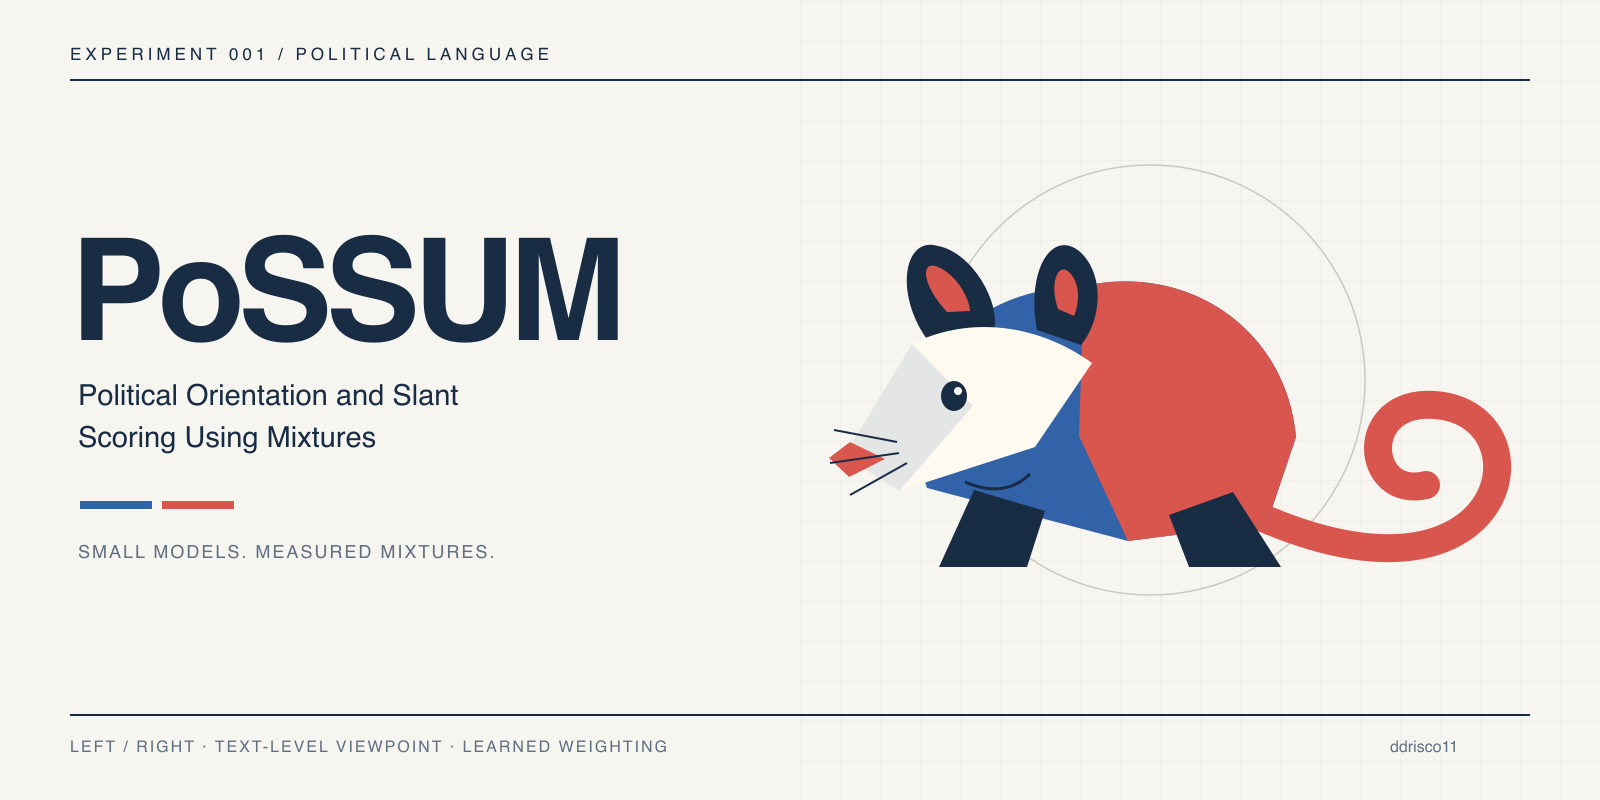
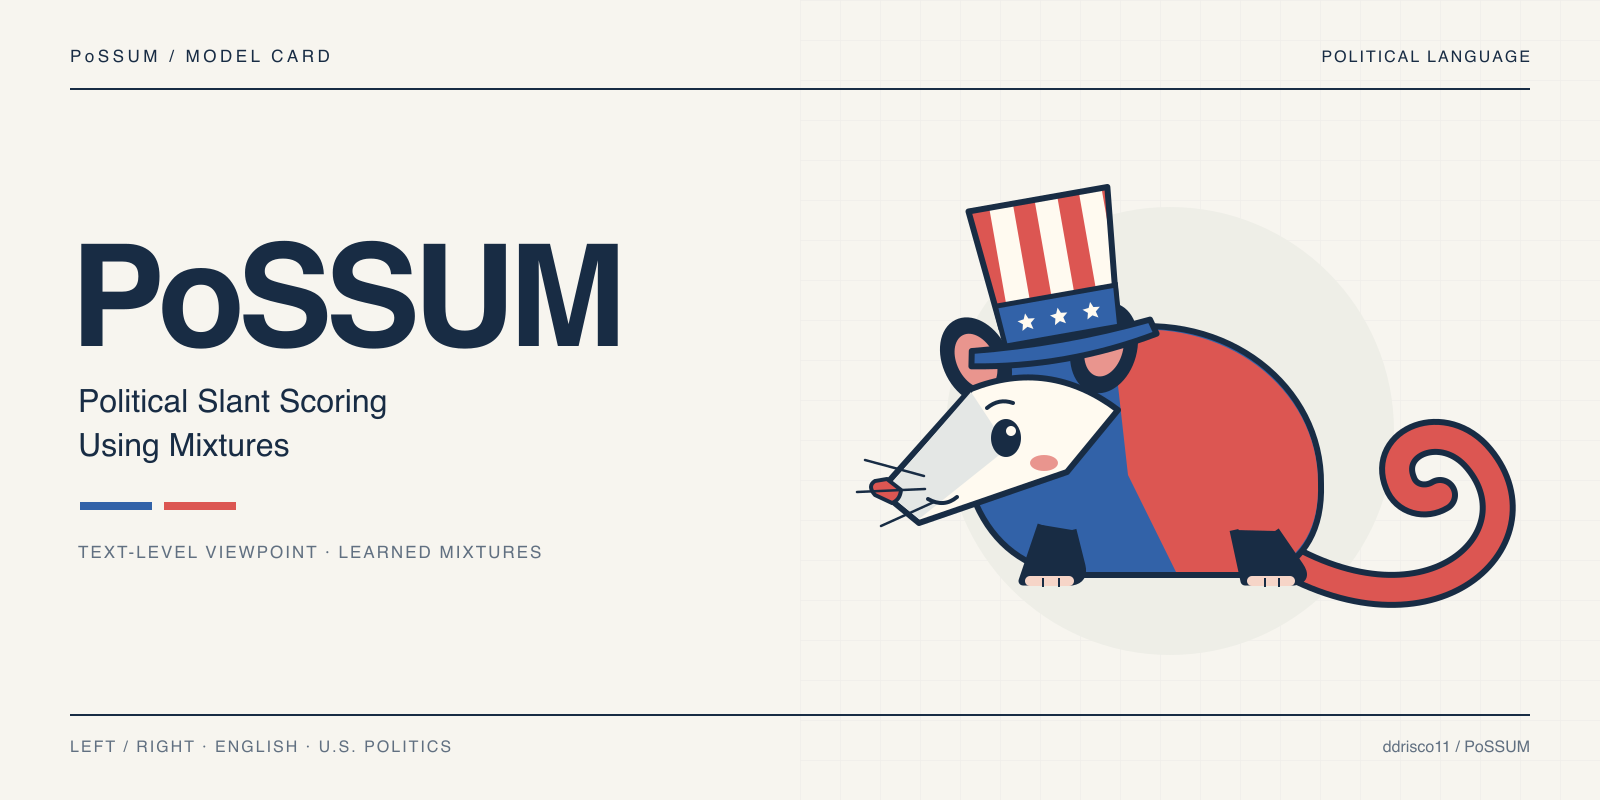
Refresh PoSSUM model card and Uncle Sam mascot

diff --git a/src/possum/cli.py b/src/possum/cli.py
@@ -4,7 +4,7 @@ from pathlib import Path
 
 
 def main():
-    parser = argparse.ArgumentParser(description="PoSSUM modular experiment")
+    parser = argparse.ArgumentParser(description="PoSSUM political slant classification")
     sub = parser.add_subparsers(dest="command", required=True)
     p = sub.add_parser("pilot",help="Run compact experts; reserve final test without scoring it")
     p.add_argument("input",help="Normalized JSONL records")

diff --git a/src/possum/__init__.py b/src/possum/__init__.py
@@ -1,1 +1,1 @@
-"""PoSSUM: a small, auditable political viewpoint experiment."""
+"""PoSSUM: Political Slant Scoring Using Mixtures."""

diff --git a/README.md b/README.md
@@ -1,20 +1,37 @@
-<img src="assets/cover.svg" alt="Red and blue vector possum beside PoSSUM title" width="100%">
+<img src="assets/cover.svg" alt="Cartoon red and blue possum wearing an Uncle Sam hat beside the PoSSUM title" width="100%">
 
 # PoSSUM
-**Political Orientation and Slant Scoring Using Mixtures**
+**Political Slant Scoring Using Mixtures**
 
-A short experiment: does a small, embedding-conditioned mixture beat a strong single model at classifying the political viewpoint expressed in a short U.S. political passage?
+## Model overview
 
-**Labels:** `0 = Left`, `1 = Right`. **Status:** compact M2 pilot completed; [results and limitations](reports/initial-pilot.md). No scientific conclusions yet. Model weights and source datasets are downloaded separately and never committed.
+PoSSUM classifies the political viewpoint expressed in short English passages about U.S. politics. It combines component predictions with a neural gate conditioned on 384-dimensional BGE-small embeddings. The hybrid gate can also assign weight to its own prediction.
 
-## Experiment in three steps
-1. Freeze encoders; run a small grouped pilot with BGE-small, BERT, GLiNER, and a lexical baseline.
-2. Calibrate component scores; compare best single, equal average, fixed mixture, and a 384 → 32 → K neural gate. Run leave-one-component-out ablations.
-3. Only if validation evidence supports it, expand the data, audit Mistral/Qwen logits, and fine-tune selected encoders. Open the reserved test set once the recipe is fixed.
+| Property | Specification |
+|---|---|
+| Task | Binary political slant classification |
+| Labels | `0 = Left`, `1 = Right` |
+| Input | Approximately 20–150 words |
+| Architecture | Dense mixture of calibrated predictions with an optional self-prediction branch |
+| Components | BERT, BGE-small, GLiNER; optional ModernBERT, OpenJev, Mistral and Qwen adapters |
+| Status | Development implementation with a compact synthetic pilot; no validated release checkpoint |
+| Language and domain | English, U.S. politics |
 
-This is a dense mixture of predictions, not a sparsely routed language model: every enabled expert runs. A gate does not automatically reduce inference cost.
+Model weights and source datasets are downloaded separately. Every enabled expert runs; the gate does not provide sparse inference routing.
 
-See [experiment protocol](docs/experiment.md), [model registry](docs/models.md), and [dataset manifest](docs/datasets.md).
+## Training and evaluation
+
+The compact pilot uses frozen encoders with fitted classification heads. Expert fitting, temperature calibration, gate training and validation use disjoint groups. Comparisons include single models, equal averaging, a fixed mixture, an experts-only gate and a hybrid gate with its own classifier.
+
+The completed pilot used 480 synthetic development passages. BERT achieved 0.987 macro-F1 and 0.0950 log loss on 80 validation passages from one topic group. Mixture improvements were small; these results do not establish performance on human-authored text. The reserved test set has not been scored. The grouped pilot uses a 75/25 development/test split; the broader evaluation target is 80/20.
+
+See the [pilot report](reports/initial-pilot.md), [training and evaluation protocol](docs/evaluation.md), [model registry](docs/models.md), and [dataset manifest](docs/datasets.md).
+
+## Intended use and limitations
+
+PoSSUM is a development model for studying expressed political viewpoint in text. It does not infer an individual's beliefs. Party and publisher metadata provide noisy supervision rather than passage-level ground truth. Neutral, ambiguous and nonpolitical text is outside the binary training target; abstention and politicalness detection need separate evaluation.
+
+Human-verified evaluation and broader domain testing remain incomplete. OpenJev, Mistral, Qwen and ModernBERT have not completed checkpoint-level inference in the pilot. Training data and component weights retain their upstream licenses; see the model registry and dataset manifest.
 
 ## Local setup (Apple Silicon)
 ```bash
@@ -29,8 +46,6 @@ Use one component at a time and cache scores. The default pilot avoids 7–27B w
 
 ## Reproducibility
 Record checkpoint revisions, dataset hashes, split membership, dependency versions, seeds, score prompts, and device in every run. Raw corpora, model caches and sample-level outputs stay ignored. Public reports contain aggregate metrics only.
-
-This experiment measures expressed viewpoint, not an individual's beliefs. Party/source labels are noisy supervision; they are not human verification of a passage's viewpoint. Neutral and ambiguous input is outside the binary training target. Production abstention and politicalness detection remain separate evaluation tasks.
 
 ## Run an expert independently
 ```bash

diff --git a/docs/evaluation.md b/docs/evaluation.md
@@ -1,4 +1,4 @@
-# Short experiment protocol
+# Training and evaluation protocol
 
 ## Question and scope
 Predict left/right viewpoint in English U.S. political text of 20–150 whitespace-separated words. A disagreement with a politician or a quotation need not express the author's own view. Exclude neutral, ambiguous and nonpolitical examples only when the dataset supplies reliable labels or human review; do not pretend party metadata performs that filtering.
@@ -6,7 +6,7 @@ Predict left/right viewpoint in English U.S. political text of 20–150 whitespa
 ## Splits
 Reserve approximately 20% of connected source groups for a final test. Group by original document and author, including shared identities across datasets; join near-duplicate clusters before splitting. Remaining 80% is development. Within development allocate disjoint expert-fit, calibration, gate-fit and validation groups. This held-out stacking design avoids fitting a gate on in-sample expert scores; it trades some efficiency for an easily audited pilot. Group proportions will not be exactly 80/20 at row level.
 
-Pilot: cap at 800 accepted rows from development, with both labels and sufficient groups. Never inspect final-test metrics to choose components. Primary evaluation should ultimately use human-verified, unseen text; party-platform and synthetic pilot metrics are diagnostic only. IBC passages shorter than 20 words are excluded in the strict experiment and can be reported in a separately identified sensitivity run.
+Pilot: cap at 800 accepted rows from development, with both labels and sufficient groups. Never inspect final-test metrics to choose components. Primary evaluation should ultimately use human-verified, unseen text; party-platform and synthetic pilot metrics are diagnostic only. IBC passages shorter than 20 words are excluded in the strict evaluation and can be reported in a separately identified sensitivity run.
 
 ## Comparisons
 TF–IDF logistic regression; frozen BERT with a fitted logistic head; BGE-small with logistic head; BGE-small neural classifier; GLiNER zero-shot scores; optional OpenJev and causal Mistral/Qwen scores. Base BERT has no trained political classification head: a randomly initialized classification layer is not a valid expert.

diff --git a/reports/initial-pilot.md b/reports/initial-pilot.md
@@ -37,6 +37,6 @@ Eight local tests cover provenance failures, conflicting labels, transitive grou
 
 The first synthetic pilot does not satisfy the final human-text evaluation requirement. IBC/Manifesto/platform/tweet admission still needs original grouping provenance and verified label mappings; optional datasets remain manifest entries. No raw corpora or model weights were published.
 
-## Next experiment
+## Further evaluation
 
 Recover human-text document/author groups and assemble several independent validation groups. Compare BERT, lexical baseline, GLiNER, expert gate and hybrid gate on those before deciding to drop experts or fine-tune. OpenJev is deferred for memory; Mistral/Qwen require a quantized backend and further runtime validation.
